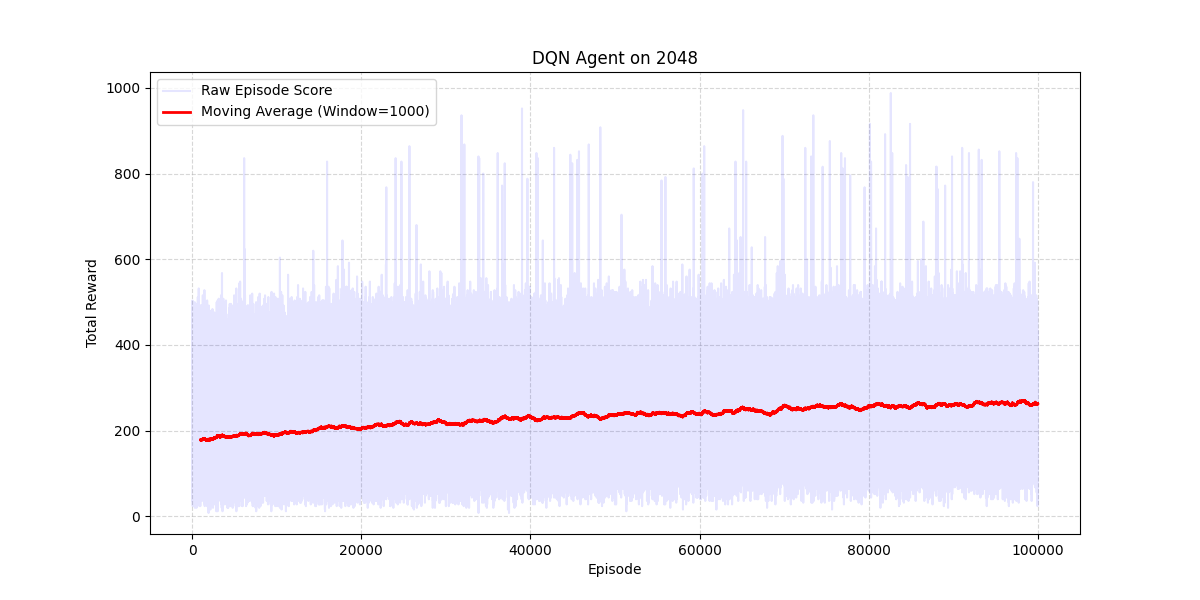
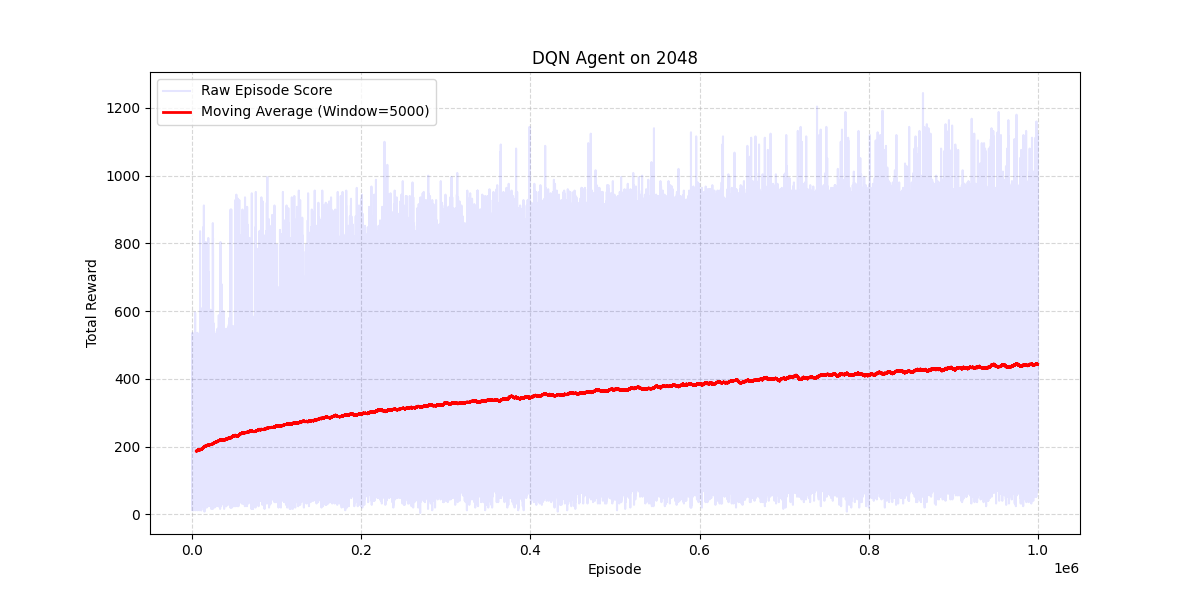
chapter 6 notes + more agents to implement + monte carlo 1mil episode results in, 1244 on 3x3 2048

diff --git a/scripts/TFE/mctrain.py b/scripts/TFE/mctrain.py
@@ -8,7 +8,6 @@ import gymnasium as gym
 import numpy as np
 from utils.plotting import plot_learning_curve
 from pathlib import Path
-import gc
 
 CONFIG_FILENAME="on_policy_first_visit_monte_carlo.yaml"
 ENV_ID="Pulse-2048-v1"
@@ -28,13 +27,6 @@ if __name__ == "__main__":
     final_scores: List[float]=[]
     steps=0
 
-    env_reset = env.reset
-    env_step = env.step
-    agent_action = agent.action
-    agent_learn = agent.learn
-
-    gc.disable()
-
     for i in range(config["NUM_EPISODES"]):
         raw_state, info = env.reset()
         state = tuple(raw_state.flatten())
@@ -53,13 +45,11 @@ if __name__ == "__main__":
         scores.append(episode_score)
         final_scores.append(total_score["total_score"])
 
-        if i % 1000 == 0:
-            gc.collect()
         
         if i % 50 == 0:
             print(f"Episode {i}: Score: {episode_score}, Avg Score (last 50): {np.mean(scores[-50:]):.2f}, Final score: {final_scores[-1]}")
             
-    plot_learning_curve(scores, plot_filepath, window_size=1000, title="DQN Agent on 2048")
-    plot_learning_curve(final_scores, score_filepath, window_size=1000, title="DQN Agent on 2048")
+    plot_learning_curve(scores, plot_filepath, window_size=5000, title="DQN Agent on 2048")
+    plot_learning_curve(final_scores, score_filepath, window_size=5000, title="DQN Agent on 2048")
 
     print(f"Highest Score: {max(final_scores)}")

diff --git a/environments/TwentyFourtyEight.py b/environments/TwentyFourtyEight.py
@@ -36,6 +36,7 @@ class Game2048Env(gym.Env):
         new_row = []
         step_score = 0
         i = 0
+        
         while i < len(non_zero):
             if i + 1 < len(non_zero) and non_zero[i] == non_zero[i+1]:
                 merged_tile = non_zero[i] * 2
@@ -94,7 +95,7 @@ class Game2048Env(gym.Env):
             self._add_new_tile()
             terminated = self._is_game_over()
         else:
-            reward = -1
+            reward = -.2
         
         return self._get_obs(), reward, terminated, False, self._get_info()
 
